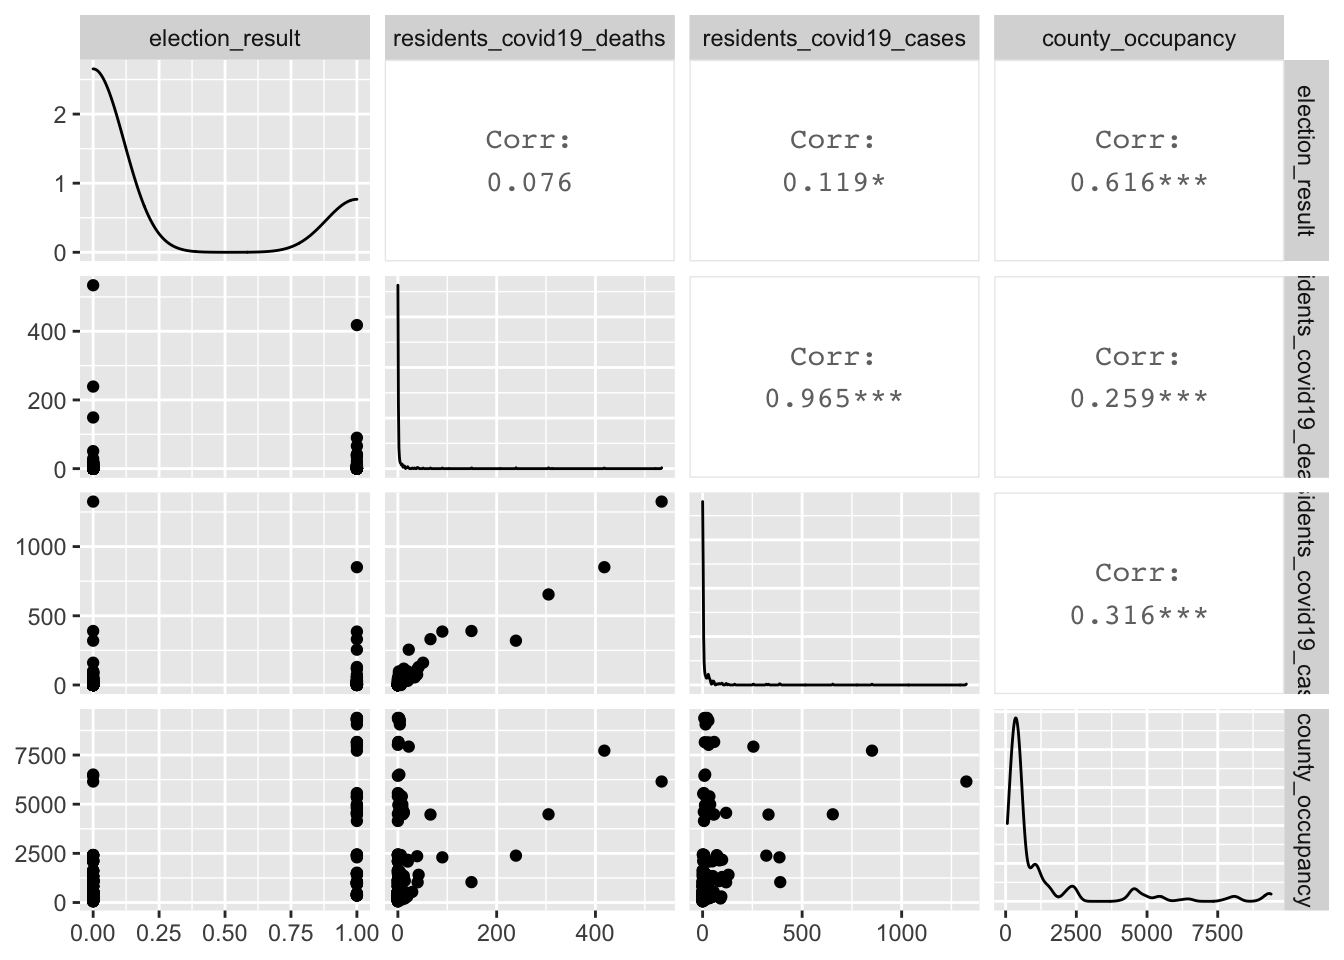
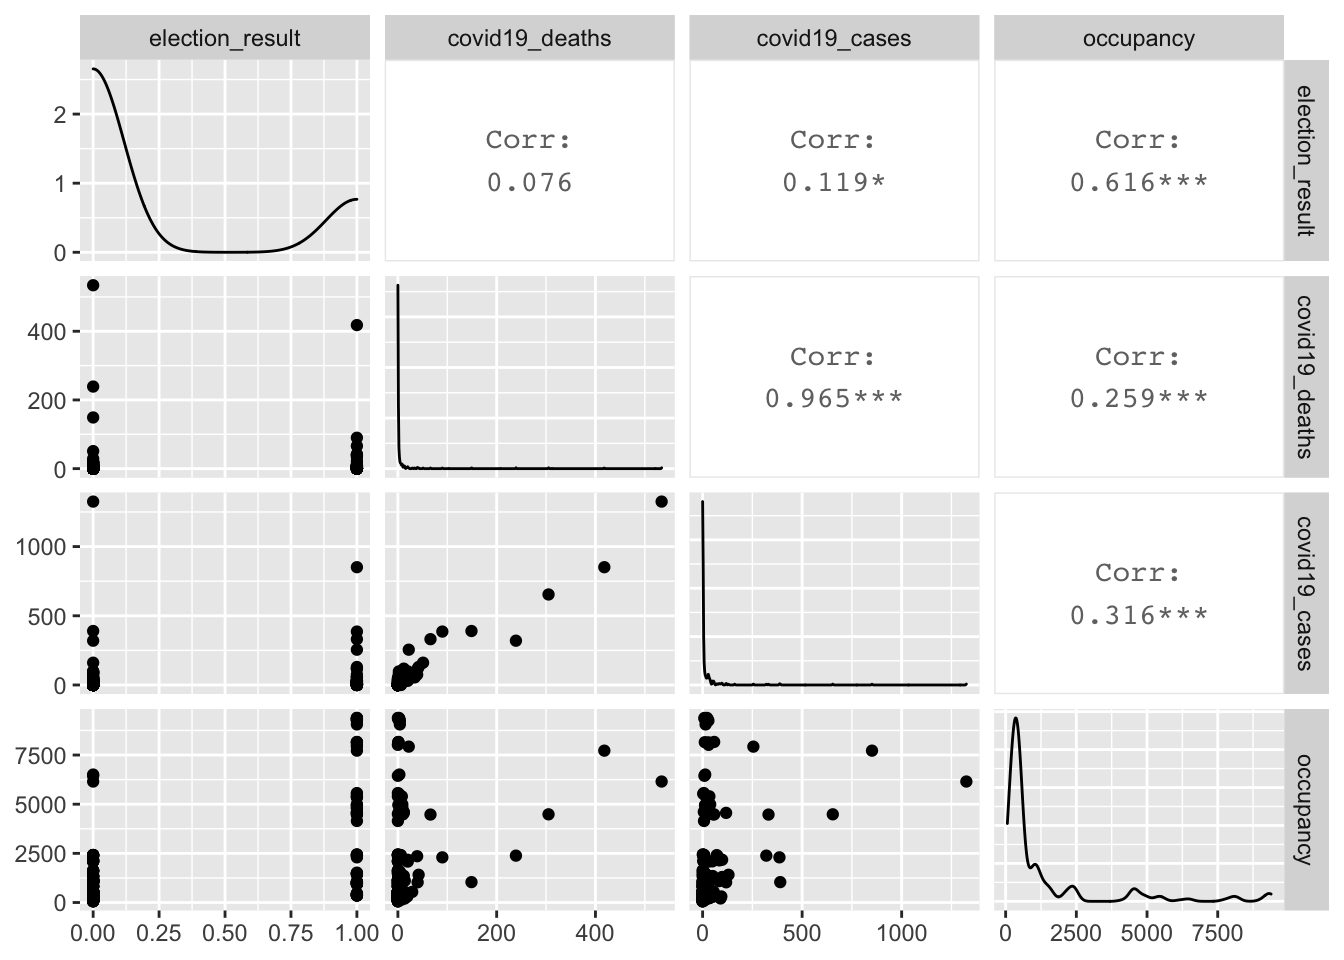
update analysis

diff --git a/analysis.html b/analysis.html
@@ -374,9 +374,6 @@ div.tocify {
   <a href="overview.html">Overview</a>
 </li>
 <li>
-  <a href="dashboard.html">Nusing Home Trends</a>
-</li>
-<li>
   <a href="mapping.html">Mapping</a>
 </li>
 <li>
@@ -432,19 +429,36 @@ read_csv(&quot;./data/final_df.csv&quot;) %&gt;%
    election_result = recode(election_result, &quot;D&quot; = &quot;1&quot;, &quot;R&quot; = &quot;0&quot;)
    ) %&gt;% 
   mutate(election_result = as.numeric(election_result)) %&gt;% 
-  select(-county,-month, -nh_monthly_fatality_rate, -total_supply_ppe_monthly) # reasons to delete last two variables is corr coef are NA.
+    dplyr::select(-county,-month, -nh_monthly_fatality_rate, -total_supply_ppe_monthly) # reasons to delete last two variables is corr coef are NA.
 
-res = round(cor(my_data, use = &quot;complete.obs&quot;),3) #handle missing value</code></pre>
-<pre class="r"><code>ggpairs(pair_plot_df, 1:4)</code></pre>
-<p><img src="analysis_files/figure-html/unnamed-chunk-5-1.png" width="672" /></p>
+res = round(cor(my_data, use = &quot;complete.obs&quot;),3) #handle missing value
+
+pair_plot_df =
+  my_data %&gt;% 
+  rename(covid19_cases = residents_covid19_cases_per_month) %&gt;% 
+  rename(covid19_deaths = residents_covid19_deaths_per_month) %&gt;% 
+  rename(ventilator = ventilator_dependent_unit_monthly) %&gt;% 
+  rename(shortage_stuff = total_shortage_stuff_monthly) %&gt;% 
+  rename(test_perform = monthly_new_tests_performed) %&gt;% 
+  rename(new_positives = monthly_new_positives) %&gt;% 
+  rename(infection_rate = monthly_infection_rate) %&gt;% 
+  rename(fatality_rate = monthly_fatality_rate) %&gt;% 
+  rename(occupancy = county_monthly_occupancy) %&gt;% 
+  rename(prevalence = county_monthly_prevalence) %&gt;% 
+  rename(cases = county_monthly_cases) %&gt;% 
+  rename(vaccin_rate = staff_flu_vaccination_rate)
+
+
+ggpairs(pair_plot_df, 1:4)</code></pre>
+<p><img src="analysis_files/figure-html/unnamed-chunk-3-1.png" width="672" /></p>
 <pre class="r"><code>ggpairs(pair_plot_df, 5:9)+  
   theme(axis.text.x = element_text(angle = 90, vjust = 1, 
     size = 9, hjust = 1))</code></pre>
-<p><img src="analysis_files/figure-html/unnamed-chunk-5-2.png" width="672" /></p>
+<p><img src="analysis_files/figure-html/unnamed-chunk-3-2.png" width="672" /></p>
 <pre class="r"><code>ggpairs(pair_plot_df, 10:14)+
   theme(axis.text.x = element_text(angle = 90, vjust = 1, 
     size = 9, hjust = 1))</code></pre>
-<p><img src="analysis_files/figure-html/unnamed-chunk-5-3.png" width="672" /></p>
+<p><img src="analysis_files/figure-html/unnamed-chunk-3-3.png" width="672" /></p>
 <pre class="r"><code>res2 = rcorr(as.matrix(my_data)) # calculate the correlation p-values
   
 # Extract the correlation coefficients：res2$r
@@ -482,7 +496,7 @@ ggplot(data =tidy_df, aes(x=row, y=column, fill=cor))+
     size = 9, hjust = 1))+
  coord_fixed() + 
 geom_text(aes(x=row, y=column, label=cor), color = &quot;black&quot;, size = 2)</code></pre>
-<p><img src="analysis_files/figure-html/unnamed-chunk-6-1.png" width="672" /></p>
+<p><img src="analysis_files/figure-html/unnamed-chunk-4-1.png" width="672" /></p>
 </div>
 <div id="wilcoxon-rank-sum-test" class="section level2">
 <h2>2. Wilcoxon Rank-sum Test</h2>
@@ -494,15 +508,15 @@ geom_text(aes(x=row, y=column, label=cor), color = &quot;black&quot;, size = 2)<
 <pre class="r"><code>nursing_house_df =
 read_csv(&quot;./data/final_df.csv&quot;) %&gt;%
   janitor::clean_names() %&gt;% 
-  select(nh_monthly_fatality_rate) %&gt;% 
+    dplyr::select(nh_monthly_fatality_rate) %&gt;% 
   drop_na() %&gt;% 
   filter_all(all_vars(!is.infinite(.)))
 
 
- residents_df =
+residents_df =
 read_csv(&quot;./data/final_df.csv&quot;) %&gt;%
   janitor::clean_names() %&gt;% 
-  select(monthly_fatality_rate) %&gt;% 
+    dplyr::select(monthly_fatality_rate) %&gt;% 
   drop_na()</code></pre>
 <pre class="r"><code>par(mfrow=c(2,2))
 hist(nursing_house_df$nh_monthly_fatality_rate, xlab = &quot;nh_monthly_fatality_rate&quot;, freq=T, main=&quot;nursing home monthly fatality rate&quot;)
@@ -513,7 +527,7 @@ qqline(nursing_house_df$nh_monthly_fatality_rate, col = 1,lwd=2,lty=2)
 
 qqnorm(residents_df$monthly_fatality_rate, col=2, pch=19, cex=1.5)
 qqline(residents_df$monthly_fatality_rate, col = 1,lwd=2,lty=2)</code></pre>
-<p><img src="analysis_files/figure-html/unnamed-chunk-9-1.png" width="672" /></p>
+<p><img src="analysis_files/figure-html/unnamed-chunk-7-1.png" width="672" /></p>
 <p>From the Histogram and QQ Plot, we can see that the distribution of nursing home monthly fatality rate and residents monthly fatality rates are heavily right skewed. Therefore, they violated the normality assumptions. We are going to use non-parametric test: Wilcoxon Rank - Sum Test to do the following hypothesis test:</p>
 <p>H0: The medians level of monthly fatality rate are the same for NY State residents and nursing home seniors.</p>
 <p>Ha: The medians level of monthly fatality rate are different for NY State residents and nursing home seniors.</p>
@@ -546,7 +560,7 @@ res</code></pre>
 <pre class="r"><code>nursing_house_df2 =
 read_csv(&quot;./data/final_df.csv&quot;) %&gt;%
   janitor::clean_names() %&gt;% 
-  select(county_monthly_prevalence) %&gt;% 
+    dplyr::select(county_monthly_prevalence) %&gt;% 
   rename(nh_monthly_infection_rate = county_monthly_prevalence) %&gt;% 
   drop_na() %&gt;% 
   filter_all(all_vars(!is.infinite(.)))
@@ -555,7 +569,7 @@ read_csv(&quot;./data/final_df.csv&quot;) %&gt;%
  residents_df2 =
 read_csv(&quot;./data/final_df.csv&quot;) %&gt;%
   janitor::clean_names() %&gt;% 
-  select(monthly_infection_rate) %&gt;% 
+    dplyr::select(monthly_infection_rate) %&gt;% 
   drop_na()</code></pre>
 <pre class="r"><code>par(mfrow=c(2,2))
 hist(nursing_house_df2$nh_monthly_infection_rate, xlab = &quot;nh_monthly_fatality_rate&quot;, freq=T, main=&quot;nursing home monthly fatality rate&quot;)
@@ -566,7 +580,7 @@ qqline(nursing_house_df2$nh_monthly_infection_rate, col = 1,lwd=2,lty=2)
 
 qqnorm(residents_df2$monthly_infection_rate, col=2, pch=19, cex=1.5)
 qqline(residents_df2$monthly_infection_rate, col = 1,lwd=2,lty=2)</code></pre>
-<p><img src="analysis_files/figure-html/unnamed-chunk-12-1.png" width="672" /></p>
+<p><img src="analysis_files/figure-html/unnamed-chunk-10-1.png" width="672" /></p>
 <p>From the Histogram and QQ Plot, we can see that the distribution of nursing home monthly infection rate and residents monthly infection rates are heavily right skewed. Therefore, they violated the normality assumptions. We are going to use non-parametric test: Wilcoxon Rank - Sum Test to do the following hypothesis test:</p>
 <p>H0: The medians level of monthly infection rate are the same for NY State residents and nursing home seniors.</p>
 <p>Ha: The medians level of monthly infection rate are different for NY State residents and nursing home seniors.</p>
@@ -678,20 +692,15 @@ step3 = update(step2, .~. -nh_occupancy_rate)
 step4 = update(step3, .~. -staff_flu_vaccination_rate)
 
 
-# diagnostic MLR
-layout(matrix(c(1,2,3,4),2,2)) # optional 4 graphs/page 
-diag_plot1 = plot(step4)</code></pre>
-<p><img src="analysis_files/figure-html/panel%20data%20model%20fiting-1.png" width="672" /></p>
-<pre class="r"><code>diag_plot1</code></pre>
-<pre><code>## NULL</code></pre>
-<pre class="r"><code># test heteroskedasticity
-bptest(step4)</code></pre>
-<pre><code>## 
-##  studentized Breusch-Pagan test
-## 
-## data:  step4
-## BP = 75.091, df = 3, p-value = 3.464e-16</code></pre>
-<pre class="r"><code># ensemble models summary table
+# # diagnostic MLR
+# layout(matrix(c(1,2,3,4),2,2)) # optional 4 graphs/page 
+# diag_plot1 = plot(step4)
+# diag_plot1
+
+# # test heteroskedasticity
+# bptest(step4)
+
+# ensemble models summary table
 mlr_tab1 = 
   tab_model(step4, step3, step2, step1, show.p = TRUE, show.ci = FALSE)
 
@@ -978,8 +987,8 @@ R<sup>2</sup> / R<sup>2</sup> adjusted
 </ol>
 </div>
 </div>
-<div id="simple-mlr-without-longitudinal-form" class="section level2">
-<h2>4. Simple MLR without longitudinal form</h2>
+<div id="mlr-without-panel-data-form" class="section level2">
+<h2>4. MLR Without panel data form</h2>
 <p>We continue to use simple multiple linear regression to predict the nursing home prevalence. This will give us a more generalized model.</p>
 <p>We use AIC regression for the modeling.</p>
 <div id="a-mlr-stepwise-aic-regression" class="section level3">
@@ -993,7 +1002,7 @@ R<sup>2</sup> / R<sup>2</sup> adjusted
 no.na.data = 
   my_data_lm %&gt;% 
   na.omit() %&gt;% 
-  select(
+  dplyr::select(
     -county,
     -month
   )
@@ -1038,9 +1047,7 @@ summary(step_ml)</code></pre>
               + ventilator_dependent_unit_monthly
               + monthly_infection_rate 
               + monthly_fatality_rate,
-              
               data = no.na.data
-                
                 )
 summary(aic_res2)</code></pre>
 <pre><code>## 
@@ -1066,18 +1073,14 @@ summary(aic_res2)</code></pre>
 ## Residual standard error: 0.03791 on 114 degrees of freedom
 ## Multiple R-squared:  0.7063, Adjusted R-squared:  0.6959 
 ## F-statistic: 68.52 on 4 and 114 DF,  p-value: &lt; 2.2e-16</code></pre>
-<pre class="r"><code># diagnostics
-layout(matrix(c(1,2,3,4),2,2)) # optional 4 graphs/page 
-plot(aic_res2)</code></pre>
-<p><img src="analysis_files/figure-html/simple%20MLR-1.png" width="672" /></p>
-<pre class="r"><code># test heteroskedasticity
-bptest(aic_res2)</code></pre>
-<pre><code>## 
-##  studentized Breusch-Pagan test
-## 
-## data:  aic_res2
-## BP = 37.203, df = 4, p-value = 1.636e-07</code></pre>
-<pre class="r"><code># summary table
+<pre class="r"><code># # diagnostics
+# layout(matrix(c(1,2,3,4),2,2)) # optional 4 graphs/page 
+# plot(aic_res2)
+
+# # test heteroskedasticity
+# bptest(aic_res2)
+
+# summary table
 mlr_tab2 = 
   tab_model(aic_res2, show.p = TRUE, show.ci = FALSE)
 

diff --git a/Index.html b/Index.html
@@ -22,6 +22,8 @@
 <script src="site_libs/navigation-1.1/tabsets.js"></script>
 <link href="site_libs/highlightjs-9.12.0/default.css" rel="stylesheet" />
 <script src="site_libs/highlightjs-9.12.0/highlight.js"></script>
+<link href="site_libs/anchor-sections-1.0/anchor-sections.css" rel="stylesheet" />
+<script src="site_libs/anchor-sections-1.0/anchor-sections.js"></script>
 <link href="site_libs/font-awesome-5.1.0/css/all.css" rel="stylesheet" />
 <link href="site_libs/font-awesome-5.1.0/css/v4-shims.css" rel="stylesheet" />
 
@@ -32,7 +34,7 @@
   div.column{display: inline-block; vertical-align: top; width: 50%;}
   div.hanging-indent{margin-left: 1.5em; text-indent: -1.5em;}
   ul.task-list{list-style: none;}
-      </style>
+    </style>
 
 <style type="text/css">code{white-space: pre;}</style>
 <style type="text/css">
@@ -338,11 +340,11 @@ $(document).ready(function () {
 <div id="website-navigation" class="section level3">
 <h3>Website Navigation:</h3>
 <ul>
-<li><b><a href="about.html">About</a></b>: A brief introduction of our project including our motivation, data sources, and report.</li>
-<li><b><a href="overview.html">Overview</a></b>: Multiple trend comparisons between nursing homes(county as unit) and the whole country.</li>
-<li><b><a href="mapping.html">Mapping</a></b>: COVID-19 Map For New York State in May 2020</li>
-<li><b><a href="analysis.html">Analysis</a></b>: Statistical analysis for our project, including Correlation Matrix, Wilcoxon Rank-sum Test and Regression.</li>
-<li><b><a href="more.html">Fun Explorations</a></b>: Discuss other factors, such as political influence and nursing home facility, and how they may relate to the situations in NY nursing homes.</li>
+<li><p><b><a href="about.html">About</a></b>: A brief introduction of our project including our motivation, data sources, and report.</p></li>
+<li><p><b><a href="overview.html">Overview</a></b>: Multiple trend comparisons between nursing homes(county as unit) and the whole country.</p></li>
+<li><p><b><a href="mapping.html">Mapping</a></b>: COVID-19 Map For New York State in May 2020</p></li>
+<li><p><b><a href="analysis.html">Analysis</a></b>: Statistical analysis for our project, including Correlation Matrix, Wilcoxon Rank-sum Test and Regression.</p></li>
+<li><p><b><a href="more.html">Fun Explorations</a></b>: Discuss other factors, such as political influence and nursing home facility, and how they may relate to the situations in NY nursing homes.</p></li>
 </ul>
 </div>
 
@@ -355,7 +357,7 @@ $(document).ready(function () {
 
 // add bootstrap table styles to pandoc tables
 function bootstrapStylePandocTables() {
-  $('tr.header').parent('thead').parent('table').addClass('table table-condensed');
+  $('tr.odd').parent('tbody').parent('table').addClass('table table-condensed');
 }
 $(document).ready(function () {
   bootstrapStylePandocTables();
